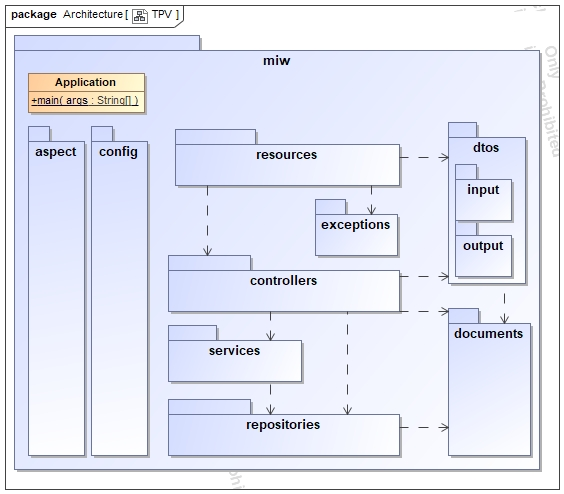
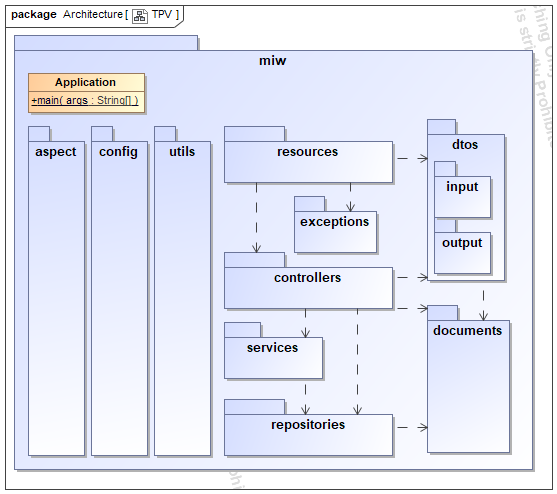
docs

diff --git a/src/test/java/es/upm/miw/AllMiwTests.java b/src/test/java/es/upm/miw/AllMiwTests.java
@@ -8,12 +8,14 @@ import es.upm.miw.documents.core.AllMiwDocumentsCoreTests;
 import es.upm.miw.repositories.core.AllMiwRepositoriesCoreIntegrationTets;
 import es.upm.miw.resources.AllMiwResourcesFunctionalTests;
 import es.upm.miw.services.AllMiwServicesIntegrationTests;
+import es.upm.miw.services.PdfBuilderTest;
 import es.upm.miw.utils.AllMiwUtilsTests;
 
 @RunWith(Suite.class)
 @SuiteClasses({
     AllMiwDocumentsCoreTests.class,
     AllMiwUtilsTests.class,
+    PdfBuilderTest.class,
     
     AllMiwRepositoriesCoreIntegrationTets.class,
     AllMiwServicesIntegrationTests.class,

diff --git a/src/main/java/es/upm/miw/config/SwaggerConfig.java b/src/main/java/es/upm/miw/config/SwaggerConfig.java
@@ -27,7 +27,7 @@ public class SwaggerConfig {
                 .apiInfo(apiInfo()); // .pathMapping("").globalOperationParameters(parameters);
     }
 
-    // http://localhost:8080/swagger-ui.html
+    // http://localhost:8080/api/v0/swagger-ui.html
     private ApiInfo apiInfo() {
         return new ApiInfoBuilder().title("Máster en Ingeniería Web. Universidad Politécnica de Madrid")
                 .description("BETCA. Back-end con Tecnologías de Código Abierto (SPRING). https://github.com/miw-upm/BETCA-spring").build();

diff --git a/src/main/java/es/upm/miw/services/PdfCustomDashedLineSeparator.java b/src/main/java/es/upm/miw/services/PdfCustomDashedLineSeparator.java
@@ -1,10 +1,10 @@
-package es.upm.miw.utils;
+package es.upm.miw.services;
 
 import com.itextpdf.kernel.geom.Rectangle;
 import com.itextpdf.kernel.pdf.canvas.PdfCanvas;
 import com.itextpdf.kernel.pdf.canvas.draw.DottedLine;
 
-class CustomDashedLineSeparator extends DottedLine {
+class PdfCustomDashedLineSeparator extends DottedLine {
     protected float dash = 5;
     protected float phase = 2.5f;
 

diff --git a/src/main/java/es/upm/miw/services/PdfService.java b/src/main/java/es/upm/miw/services/PdfService.java
@@ -6,7 +6,6 @@ import java.util.Optional;
 import org.springframework.stereotype.Service;
 
 import es.upm.miw.documents.core.Article;
-import es.upm.miw.utils.PdfTag24Builder;
 
 @Service
 public class PdfService {

diff --git a/src/test/java/es/upm/miw/services/PdfBuilderTest.java b/src/test/java/es/upm/miw/services/PdfBuilderTest.java
@@ -1,6 +1,9 @@
-package es.upm.miw.utils;
+package es.upm.miw.services;
 
 import org.junit.Test;
+
+import es.upm.miw.services.PdfTag24Builder;
+import es.upm.miw.utils.Barcode;
 
 public class PdfBuilderTest {
 

diff --git a/src/test/java/es/upm/miw/utils/AllMiwUtilsTests.java b/src/test/java/es/upm/miw/utils/AllMiwUtilsTests.java
@@ -6,8 +6,7 @@ import org.junit.runners.Suite.SuiteClasses;
 
 @RunWith(Suite.class)
 @SuiteClasses({
-    BarcodeTest.class,
-    PdfBuilderTest.class
+    BarcodeTest.class
 })
 public class AllMiwUtilsTests {
 

diff --git a/src/main/java/es/upm/miw/services/PdfTag24Builder.java b/src/main/java/es/upm/miw/services/PdfTag24Builder.java
@@ -1,4 +1,4 @@
-package es.upm.miw.utils;
+package es.upm.miw.services;
 
 import java.io.File;
 import java.io.FileNotFoundException;

diff --git a/README.md b/README.md
@@ -4,7 +4,9 @@
 
 [![Build Status](https://travis-ci.org/miw-upm/betca-tpv-spring.svg?branch=develop)](https://travis-ci.org/miw-upm/betca-tpv-spring)
 
-> Proyecto básicos para el uso de la tecnología Spring
+> Proyecto Back-end completo para el uso de la tecnología Spring.  
+> El Front-end se desarrolla en Angular en el proyecto [betca-tpv-angular](https://github.com/miw-upm/betca-tpv-angular).  
+> Para más información, en la [wiki](https://github.com/miw-upm/betca-tpv-spring/wiki)
 
 ### Tecnologías necesarias
 * Java
@@ -17,7 +19,7 @@
 ### Importar el proyecto mediante Eclipse
 1. Clonar mediante Eclipse este repositorio en la máquina local: https://youtu.be/rQNixJQQ25g
 1. Importar el repositorio clonado: https://youtu.be/yYvD8ZJtWwI
-1. Crear una Base de Datos llamada: `tpv`, con usuario `root` y clave en `blanco`
+1. Utiliza una Base de Datos llamada: `tpv` en `localhost` y puerto `27017`, con usuario en `blanco` y clave en `blanco`
 
 
 ###### Autor: Jesús Bernal Bermúdez U.P.M.
